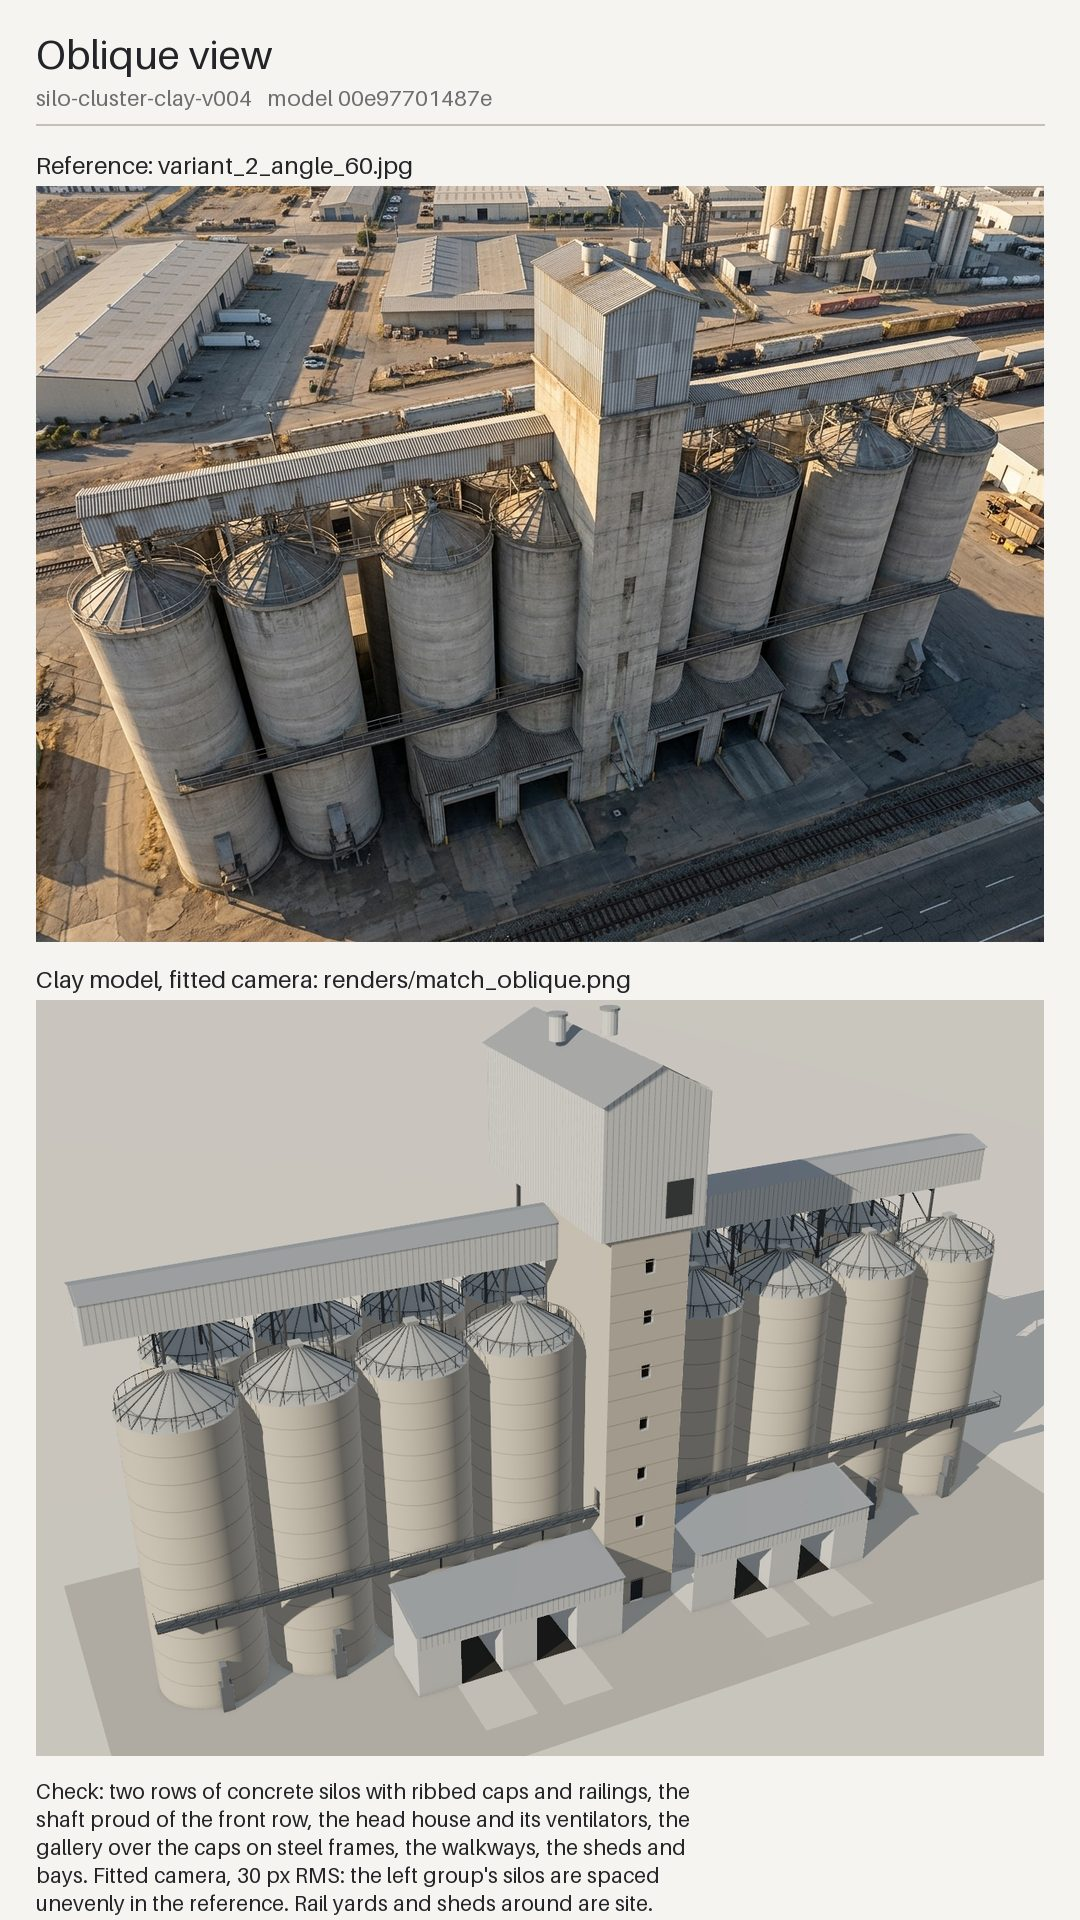
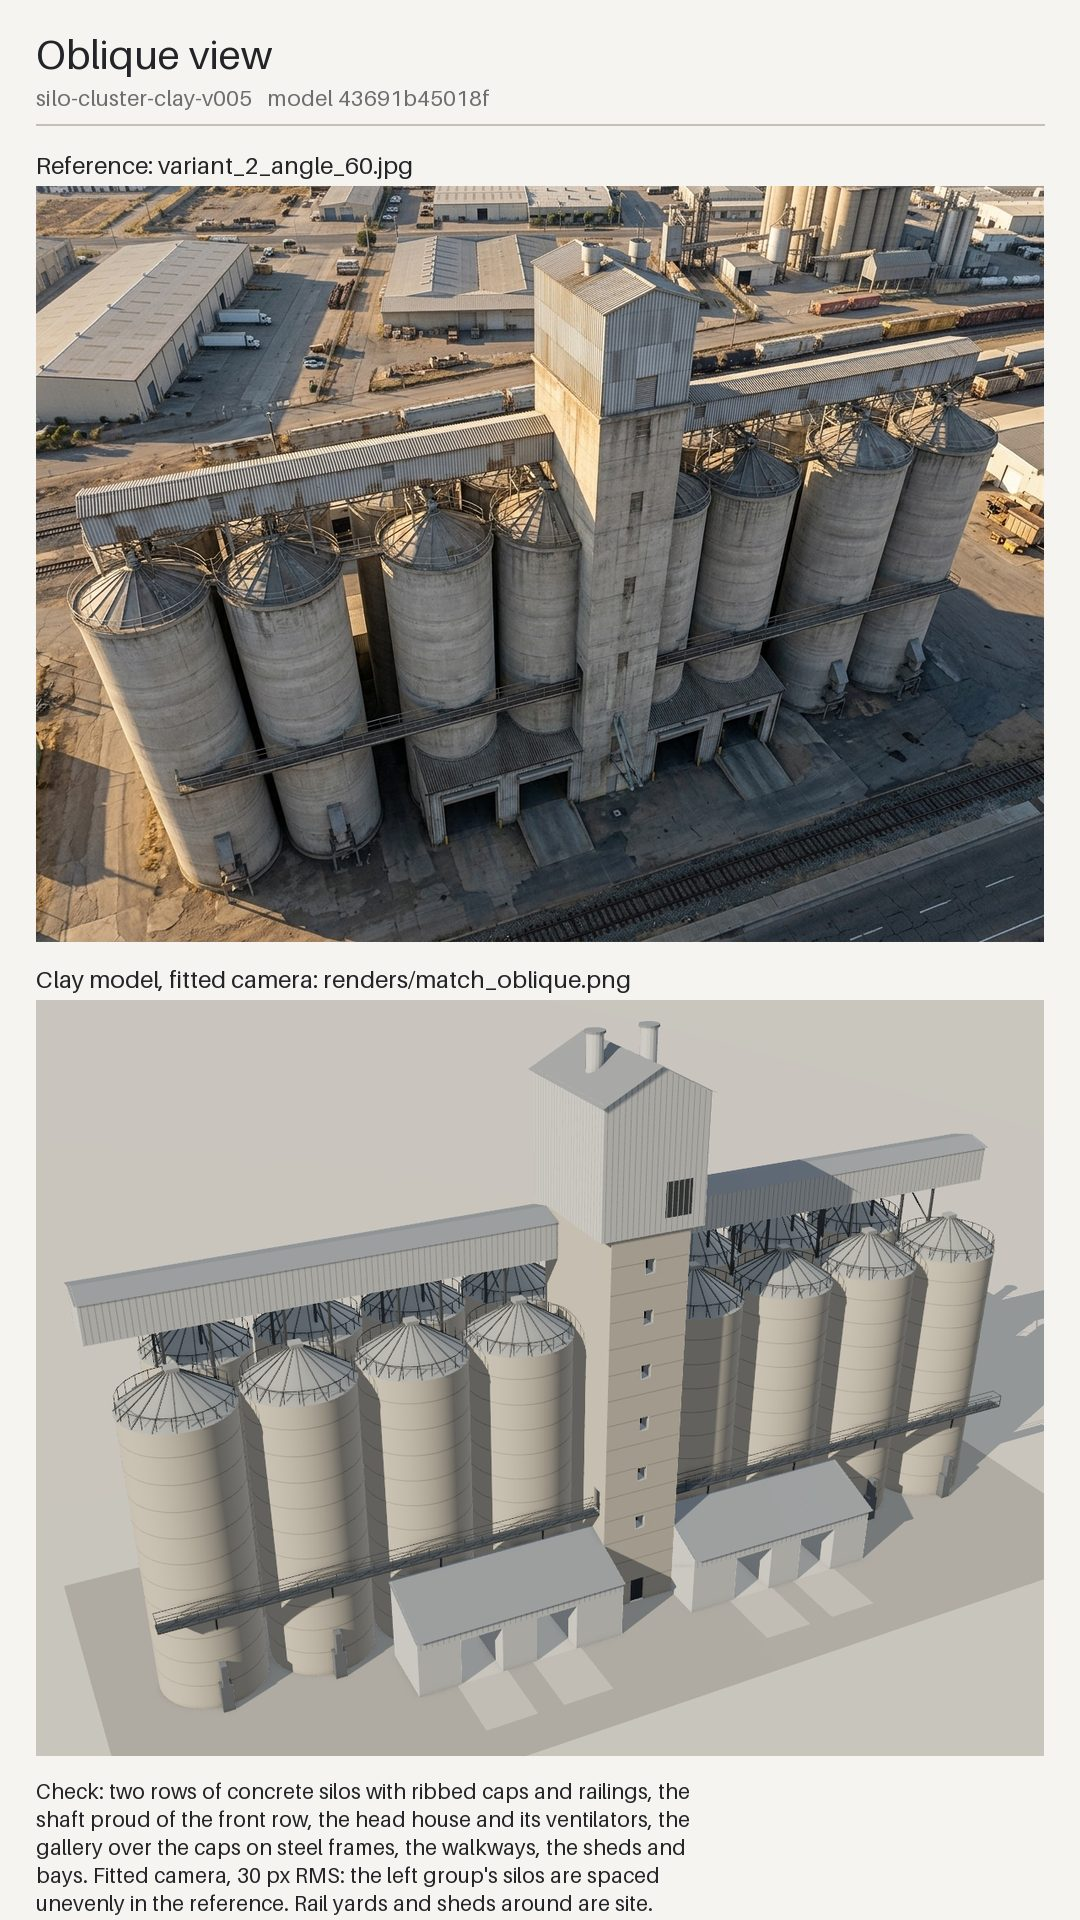
Answer the silo cluster's first review with v005
The v004 independent review refused the model with three P1 findings.
v005 answers them:

- The head house is 12.2 m deep and seated on the shaft for its whole
  depth, its posts on the caps gone.
- The gallery runs in two segments into the shaft's side faces.
- The sheds are closed at their inner ends in front of the shaft.
- The ventilators pass down through the roof.

The notes are answered too: pour lines broken at the shaft's openings,
deeper window rooms, rails on both sides of the walkways, a loading
spout in each bay, steeper shed roofs and closed roof and frame joints.
The repeat review is pending.

Claude-Session: https://claude.ai/code/session_01Qre8Fgc7mAHy1S8q3QQMRz

diff --git a/tools/catalogue_silo_cluster_pilot/build.py b/tools/catalogue_silo_cluster_pilot/build.py
@@ -53,10 +53,10 @@ FRONT_X = sorted([s * (SHAFT[0] + .3 + R + PITCH * k) for s in (-1, 1) for k in 
 CYL, CONE = 26.0, 3.0                             # silo wall height and cap rise
 POUR = 2.4                                        # pour lines on the silo walls
 GALLERY = (43.0, 2.3, 31.0, 34.4, 35.0)           # conveyor gallery: half-length, half-width, floor, eaves, ridge
-HEAD = (4.7, -12.0, 9.6, 36.0, 47.0, 49.5)        # head house: half-width, front and back y, foot, eaves, ridge
-VENTS = [(-2.4, .5), (2.4, .5)]                   # roof ventilators on the head house
+HEAD = (4.7, -12.0, .2, 36.0, 47.0, 49.5)         # head house, seated on the shaft for its whole depth: half-width, front and back y, foot, eaves, ridge
+VENTS = [(-2.4, -6.0), (2.4, -6.0)]               # roof ventilators on the head house
 SHEDS = [(-22.7, -SHAFT[0]), (SHAFT[0], 22.7)]    # loading sheds either side of the shaft, each under two front silos (x ranges)
-SHED = (-15.4, -9.4, 6.5, 7.6)                    # shed front and back y, eave heights at front and back
+SHED = (-15.4, -9.4, 5.8, 8.0)                    # shed front and back y, eave heights at front and back
 BAYS = [-17.0, -10.0, 10.0, 17.0]                 # truck bay centres, 3.8 m wide and 4.6 m high
 WALKWAY = (10.0, -10.8, -9.6)                     # walkways along the front row: deck height, outer and inner y
 APRON = 4.0
@@ -201,7 +201,7 @@ def shaft(clay):
     holed_wall(clay, 'concrete', (-hw, yf), (1.0, 0.0), (0.0, -1.0), [(0, 0), (2 * hw, 0), (2 * hw, top), (0, top)],
                [(hw + a, hw + b, c, d) for a, b, c, d in windows + door])
     for a, b, c, d in windows:
-        niche(clay, front[0], front[1], front[2], hw + a, hw + b, c, d, .35, 'interior', glass=True)
+        niche(clay, front[0], front[1], front[2], hw + a, hw + b, c, d, 1.2, 'interior', glass=True)
     a, b, c, d = door[0]
     niche(clay, front[0], front[1], front[2], hw + a, hw + b, c, d, .25, 'door')
     for x, n in ((-hw, (-1.0, 0.0)), (hw, (1.0, 0.0))):                    # side faces, with a door onto each walkway
@@ -214,8 +214,16 @@ def shaft(clay):
         niche(clay, origin, u, n, s_door - .5, s_door + .5, WALKWAY[0], WALKWAY[0] + 2.2, .25, 'door')
     wall(clay, 'concrete', (hw, yb), (-hw, yb), 0.0, top, (0, 1))
     z = POUR
-    while z < top - .5:                                                    # pour lines on the shaft's front
-        clay.quad('pour', (-hw, yf - .02, z - .05), (hw, yf - .02, z - .05), (hw, yf - .02, z + .05), (-hw, yf - .02, z + .05), facing=(0, -1, 0))
+    while z < top - .5:                                                    # pour lines on the shaft's front, broken at each opening
+        cuts = sorted((a - .1, b + .1) for a, b, c, d in windows + door if c - .1 <= z <= d + .1)
+        xs, x = [], -hw
+        for a, b in cuts:
+            xs.append((x, a))
+            x = b
+        xs.append((x, hw))
+        for a, b in xs:
+            if b - a > .05:
+                clay.quad('pour', (a, yf - .02, z - .05), (b, yf - .02, z - .05), (b, yf - .02, z + .05), (a, yf - .02, z + .05), facing=(0, -1, 0))
         z += POUR
 
 
@@ -227,8 +235,9 @@ def head_house(clay):
         wall(clay, 'steel', p, q, foot, eave, n)
     flat_region(clay, 'steel', box(-hw, yf, hw, yb), foot, up=False)
     for side in (-1, 1):                                                   # roof slopes with a small overhang
-        clay.quad('roof', (side * (hw + .35), yf - .35, eave - .1), (side * (hw + .35), yb + .35, eave - .1), (0, yb + .35, ridge + .05),
-                  (0, yf - .35, ridge + .05), facing=(side, 0, 2))
+        edge = eave - (ridge - eave) * .35 / hw                            # the roof plane passes through the wall tops
+        clay.quad('roof', (side * (hw + .35), yf - .35, edge), (side * (hw + .35), yb + .35, edge), (0, yb + .35, ridge),
+                  (0, yf - .35, ridge), facing=(side, 0, 2))
     x = -hw + .3
     while x < hw - .1:                                                     # corrugation on the gable ends
         for y, d in ((yf - .03, -1), (yb + .03, 1)):
@@ -240,32 +249,38 @@ def head_house(clay):
         for xx, d in ((hw + .03, 1), (-hw - .03, -1)):
             clay.quad('corrugation', (xx, y - .04, foot + .1), (xx, y + .04, foot + .1), (xx, y + .04, eave - .15), (xx, y - .04, eave - .15), facing=(d, 0, 0))
         y += .5
-    clay.box('louvre', 1.0, 3.4, yf - .12, yf - .02, foot + 1.2, foot + 4.2)   # louvre in the front gable
+    clay.box('louvre', 1.0, 3.4, yf - .02, yf + .2, foot + 1.2, foot + 4.2)    # louvre set into the front gable
     for vx, vy in VENTS:                                                   # ridge ventilators
-        clay.cylinder('steel', vx, vy, ridge - .6, ridge + 1.4, .7, steps=16)
+        seat = eave + (ridge - eave) * (1 - (abs(vx) + .7) / hw) - .1       # down through the roof slope at its low side
+        clay.cylinder('steel', vx, vy, seat, ridge + 1.4, .7, steps=16)
         clay.cylinder('roof', vx, vy, ridge + 1.4, ridge + 1.6, .85, steps=16)
-    for x, y in ((-3.0, 7.0), (3.0, 7.0)):                                 # posts carrying the overhang to the back row caps
-        cx, cy = min(silos(), key=lambda s: math.hypot(s[0] - x, s[1] - y))
-        beam(clay, 'frame', (x, y, cap_height(x, y, cx, cy)), (x, y, foot), .3)
 
 
 def gallery(clay):
+    """The conveyor gallery, in two segments that run into the shaft's side faces."""
     hl, hw, floor, eave, ridge = GALLERY
-    for (p, q), n in ((((-hl, -hw), (hl, -hw)), (0, -1)), (((hl, hw), (-hl, hw)), (0, 1))):
-        wall(clay, 'steel', p, q, floor, eave, n)
-    for x, n in ((-hl, -1), (hl, 1)):
-        clay.polygon('steel', [(x, -hw, floor), (x, hw, floor), (x, hw, eave), (x, 0, ridge), (x, -hw, eave)], (n, 0, 0))
-    flat_region(clay, 'steel', box(-hl, -hw, hl, hw), floor, up=False)
+    sh, yb = SHAFT[0], SHAFT[2]
+
+    def roof_z(y):
+        return eave + (ridge - eave) * (1 - abs(y) / hw)
     for side in (-1, 1):
-        clay.quad('roof', (-hl - .2, side * (hw + .2), eave - .05), (hl + .2, side * (hw + .2), eave - .05), (hl + .2, 0, ridge + .05),
-                  (-hl - .2, 0, ridge + .05), facing=(0, side, 3))
+        x_in, x_out = side * sh, side * hl
+        lo, hi = sorted((x_in, x_out))
+        for (p, q), n in ((((lo, -hw), (hi, -hw)), (0, -1)), (((hi, hw), (lo, hw)), (0, 1))):
+            wall(clay, 'steel', p, q, floor, eave, n)
+        clay.polygon('steel', [(x_out, -hw, floor), (x_out, hw, floor), (x_out, hw, eave), (x_out, 0, ridge), (x_out, -hw, eave)], (side, 0, 0))
+        clay.polygon('steel', [(x_in, yb, floor), (x_in, hw, floor), (x_in, hw, eave), (x_in, yb, roof_z(yb))], (-side, 0, 0))   # beyond the shaft's back
+        flat_region(clay, 'steel', box(lo, -hw, hi, hw), floor, up=False)
+        lo_r, hi_r = (lo - .2, hi) if side < 0 else (lo, hi + .2)
+        for s2 in (-1, 1):
+            edge = eave - (ridge - eave) * .2 / hw
+            clay.quad('roof', (lo_r, s2 * (hw + .2), edge), (hi_r, s2 * (hw + .2), edge), (hi_r, 0, ridge), (lo_r, 0, ridge), facing=(0, s2, 3))
     x = -hl + .25
     while x < hl:
-        for y, d in ((-hw - .03, -1), (hw + .03, 1)):
-            if d < 0 and abs(x) < SHAFT[0] + .1:
-                continue                                                   # inside the shaft
-            clay.quad('corrugation', (x - .04, y, floor + .08), (x + .04, y, floor + .08), (x + .04, y, eave - .1), (x - .04, y, eave - .1),
-                      facing=(0, d, 0))
+        if abs(x) > sh + .1:
+            for y, d in ((-hw - .03, -1), (hw + .03, 1)):
+                clay.quad('corrugation', (x - .04, y, floor + .08), (x + .04, y, floor + .08), (x + .04, y, eave - .1), (x - .04, y, eave - .1),
+                          facing=(0, d, 0))
         x += .5
     for x in sorted(set(BACK_X + FRONT_X)):                                # steel frames from the caps up to the gallery
         if abs(x) < HEAD[0] + .5:
@@ -274,7 +289,7 @@ def gallery(clay):
             cx, cy = min(silos(), key=lambda s: math.hypot(s[0] - x, s[1] - y))
             z0 = cap_height(x, y, cx, cy)
             beam(clay, 'frame', (x, y, z0), (x, y, floor), .22)
-        beam(clay, 'frame', (x, -hw + .2, floor - .3), (x, hw - .2, floor - .3), .18)
+        beam(clay, 'frame', (x, -hw + .2, floor - .11), (x, hw - .2, floor - .11), .18)       # cross beam under the floor
         cx, cy = min(silos(), key=lambda s: math.hypot(s[0] - x, s[1] + hw))
         beam(clay, 'frame', (x, -hw + .2, cap_height(x, -hw + .2, cx, cy) + .2), (x, hw - .2, floor - .35), .12)
 
@@ -287,12 +302,17 @@ def sheds(clay):
         holed_wall(clay, 'steel', (x0, yf), (1.0, 0.0), (0.0, -1.0), [(0, 0), (x1 - x0, 0), (x1 - x0, ef), (0, ef)], holes)
         for a, b, c, d in holes:
             niche(clay, (x0, yf), (1.0, 0.0), (0.0, -1.0), a, b, c, d, 5.4, 'interior')
-            flat_region(clay, 'interior', box(x0 + a, yf, x0 + b, yf + 5.4), .02)
+            mid = x0 + (a + b) / 2                                         # loading spout over the truck's place
+            clay.box('spout', mid - .8, mid + .8, yf + 2.2, yf + 3.8, 3.7, d)
+            clay.box('spout', mid - .3, mid + .3, yf + 2.7, yf + 3.3, 3.0, 3.7)
             flat_region(clay, 'pad', box(x0 + a - .4, yf - 6.0, x0 + b + .4, yf), .04)
         for x in (x0, x1):
-            if abs(abs(x) - SHAFT[0]) < 1e-6:
-                continue
             n = (-1, 0) if x == x0 else (1, 0)
+            if abs(abs(x) - SHAFT[0]) < 1e-6:                              # beside the shaft: close the part in front of it
+                ys = SHAFT[1]
+                zs = ef + (eb - ef) * (ys - yf) / (yb - yf)
+                clay.polygon('steel', [(x, yf, 0.0), (x, ys, 0.0), (x, ys, zs), (x, yf, ef)], (-n[0], 0, 0))
+                continue
             clay.polygon('steel', [(x, yf, 0.0), (x, yb, 0.0), (x, yb, eb), (x, yf, ef)], (*n, 0))
         lo = x0 if abs(abs(x0) - SHAFT[0]) < 1e-6 else x0 - .2                # no overhang into the shaft
         hi = x1 if abs(abs(x1) - SHAFT[0]) < 1e-6 else x1 + .2
@@ -309,7 +329,7 @@ def walkways(clay):
     z, yo, yi = WALKWAY
     for x0, x1 in ((-GALLERY[0] + 1.0, -SHAFT[0]), (SHAFT[0], GALLERY[0] - 1.0)):
         clay.box('frame', x0, x1, yo, yi, z - .15, z)
-        for y in (yo,):                                                    # guard rail on the open side, and at the outer end
+        for y in (yo, yi - .05):                                           # guard rails on both sides, and at the outer end
             clay.box('frame', x0, x1, y, y + .05, z + 1.05, z + 1.1)
             clay.box('frame', x0, x1, y, y + .05, z + .5, z + .54)
         xe = x0 if x0 < 0 else x1

diff --git a/tools/catalogue_silo_cluster_pilot/verify.py b/tools/catalogue_silo_cluster_pilot/verify.py
@@ -141,7 +141,8 @@ def main():
     hw, yf, yb, _ = build.SHAFT
     checks['the shaft stands clear of every silo'] = all(math.hypot(max(abs(x) - hw, 0), max(yf - y, y - yb, 0)) >= build.R - 1e-9 for x, y in centres)
     checks['the gallery clears every cap tip'] = build.GALLERY[2] > build.CYL + build.CONE
-    checks['the head house stands on the shaft'] = build.HEAD[3] == build.SHAFT[3]
+    checks['the head house stands on the shaft for its whole depth'] = build.HEAD[3] == build.SHAFT[3] and build.HEAD[1] >= build.SHAFT[1] - .5 \
+        and build.HEAD[2] <= build.SHAFT[2] + 1e-9
     for name in WHOLE_VIEWS:
         checks[f'camera margin {name}'] = max(abs(v) for v in view_extent(roster[name])) <= .94
     for name in build.CAMERAS:

diff --git a/tools/catalogue_silo_cluster_pilot/test_silo_cluster.py b/tools/catalogue_silo_cluster_pilot/test_silo_cluster.py
@@ -61,6 +61,7 @@ def test_the_stack_of_parts_is_coherent():
     assert all(math.hypot(max(abs(x) - hw, 0), max(yf - y, y - yb, 0)) >= build.R - 1e-9 for x, y in build.silos())
     assert yf < build.ROW_Y[0] - build.R, 'the shaft stands proud of the front row'
     assert build.WALKWAY[0] < build.CYL and build.SHED[3] < build.WALKWAY[0]
+    assert build.HEAD[1] >= build.SHAFT[1] - .5 and build.HEAD[2] <= build.SHAFT[2], 'the head house sits on the shaft for its whole depth'
 
 
 def test_the_loading_front_has_four_bays_and_a_door():

diff --git a/tools/catalogue_silo_cluster_pilot/integration/runtime-review.md b/tools/catalogue_silo_cluster_pilot/integration/runtime-review.md
@@ -11,7 +11,7 @@ No pass is carried over from any other archetype.
 
 - Kind: building
 - Archetype ID and exact variant ID: `machine_aesthetic_heavy_industrial` / `heavy_silo_cluster` (variant 2, "Silo Cluster")
[2 lines of base64/hex data omitted]
 - Runtime source commit and integration-checklist version: not run. Branch based on `deployment-version`; checklist as at that commit
 - Reviewer, date, project URL, viewport/device/input: none. No project was opened
 - Vacant test site, protected reference, disposable test project: none
@@ -27,7 +27,7 @@ No pass is carried over from any other archetype.
 - Reference-image fidelity: exact image hashes, observed amenity cues, borrowed/inferred details, native before/after views and separately exported reusable amenity modules: two references locked by hash in `prework-manifest.json`; the variant's street view is a grey render of the old LEGO model and is excluded (Gate A open for a person). Heights are proportioned in the oblique. The back row's north side, the ends, the shaft's back and all interiors are inferred. No amenity modules
 - Native park seams and raised/cycle access: full-width closed-loop/bend support, local-origin furniture transforms, measured ramp/landing or track-entry height continuity; separate offline contacts from runtime slope walking: N/A: building only; the model contains no such element
 - Street asset handoff: metric band widths, metre-scale paving phase, supported full-width endpoints, native amenity contacts, and flush versus raised boarding/kerb limitations: N/A: building only; the model contains no such element
-- Asset review status and separate publication/activation status: Independent architectural-clay review pending. That is asset review only. Publication and activation: not authorized
+- Asset review status and separate publication/activation status: v004 was refused by independent review (three P1; evidence/independent-review-v004.json); v005 answers those findings and its repeat review is pending. That is asset review only. Publication and activation: not authorized
 - Model Library storage check, configured bucket and result (building GLBs): NOT RUN. The GLB is not in the model library
 - Fresh installation: exact binding/recipe/module seed, byte readback, conflict preservation and disposable DB/bucket evidence: NOT RUN
 - Evidence manifest location and hashes; durable shared location for delivery: `tools/catalogue_silo_cluster_pilot/evidence/` and `candidate.json`. Renders and boards exist only in the build session's ignored `artifacts/` directory, which is not durable shared storage; `evidence/phone-oblique.jpg` is the one board kept in Git
@@ -239,7 +239,7 @@ These checks cannot prefill runtime terrain, access or edit/recovery passes.
 - Whole-site graph matches road-only graph; bounded road-ground recovery after new tiles:
 - Open failures, untested advertised features, owner and next bounded action: everything above marked NOT TESTED. Next bounded action: a ruling on Gate A by a person, then a local install with `--local-trial` and the student trial in `docs/BUILDING_CATALOGUE_WORKFLOW.md`, on a prepared level plot of at least 100 m by 45 m
 - Runtime integration decision: NOT REVIEWED
-- Asset visual decision (separate): builder pass. Independent architectural-clay review pending.
+- Asset visual decision (separate): builder pass. v004 was refused by independent review (three P1; evidence/independent-review-v004.json); v005 answers those findings and its repeat review is pending.
 - Publication/activation authorization (separate; cite actual authorization): none given
 
 A passing solver, successful compiler, CLI preflight, or attractive screenshot

diff --git a/tools/catalogue_silo_cluster_pilot/README.md b/tools/catalogue_silo_cluster_pilot/README.md
@@ -15,17 +15,20 @@ publication.
   - The outer silos have discharge spouts at their feet.
   - The front row parts round the elevator shaft, so it runs 7 m longer than the back row.
 - **Elevator shaft:** concrete, 36 m high, standing 2.3 m proud of the front row. It has a
-  column of six windows in recessed openings, a door at grade, and doors onto the walkways.
-- **Head house:** corrugated steel over both rows, eaves at 47 m and ridge at 49.5 m.
-  - It has gable ends, a closed underside, roof overhangs and a louvre in the front gable.
-  - Two ventilators stand on the ridge.
-  - Two posts carry its north overhang down to the back row's caps.
-- **Conveyor gallery:** 86 m long, from 31 to 35 m, over the caps on steel frames at every
-  column, with corrugated sides, gable ends and a closed underside.
+  column of six windows with rooms 1.2 m behind them, a door at grade, and doors onto the
+  walkways.
+- **Head house:** corrugated steel, 12.2 m deep, seated on the shaft for its whole depth and
+  overhanging its sides by 1.1 m, with eaves at 47 m and the ridge at 49.5 m. It has gable ends,
+  a closed underside, roof overhangs, a louvre set into the front gable, and two ventilators that
+  pass down through the roof.
+- **Conveyor gallery:** 86 m long overall, from 31 to 35 m, in two segments that run into the
+  shaft's side faces. It stands over the caps on steel frames at every column and has corrugated
+  sides, gable ends and closed undersides.
 - **Loading front:**
-  - two sheds, each two silos wide, with two truck bays each, 3.8 m by 4.6 m, opening into
-    5.4 m deep interiors, and concrete pads in front;
-  - walkways at 10 m along the front row, with guard and mid rails, ending at the shaft.
+  - two sheds, each two silos wide, closed at both ends, with two truck bays each, 3.8 m by
+    4.6 m, opening into 5.4 m deep interiors with a loading spout over each truck's place, and
+    concrete pads in front;
+  - walkways at 10 m along the front row, with rails on both sides, ending at doors in the shaft.
 - **Size:** a concrete yard round the cluster. The complete model is 94 m by 38.8 m by 51.1 m,
   with about 26,000 triangles in 15 clay roles, 1.3 MB, and no textures.
 
@@ -70,11 +73,11 @@ Open for a person to rule on:
 ## Reproduce
 
 ```bash
-python3 tools/catalogue_silo_cluster_pilot/build.py --output artifacts/silo/v004 --version 4
+python3 tools/catalogue_silo_cluster_pilot/build.py --output artifacts/silo/v005 --version 5
 python3 -m http.server 8765 --bind 127.0.0.1 &          # from the repository root
-node tools/catalogue_silo_cluster_pilot/render.cjs artifacts/silo/v004/silo-cluster-clay-v004.glb artifacts/silo/v004/renders
-python3 tools/catalogue_silo_cluster_pilot/boards.py artifacts/silo/v004
-python3 tools/catalogue_silo_cluster_pilot/verify.py artifacts/silo/v004
+node tools/catalogue_silo_cluster_pilot/render.cjs artifacts/silo/v005/silo-cluster-clay-v005.glb artifacts/silo/v005/renders
+python3 tools/catalogue_silo_cluster_pilot/boards.py artifacts/silo/v005
+python3 tools/catalogue_silo_cluster_pilot/verify.py artifacts/silo/v005
 python3 -m pytest tools/catalogue_silo_cluster_pilot
 ```
 
